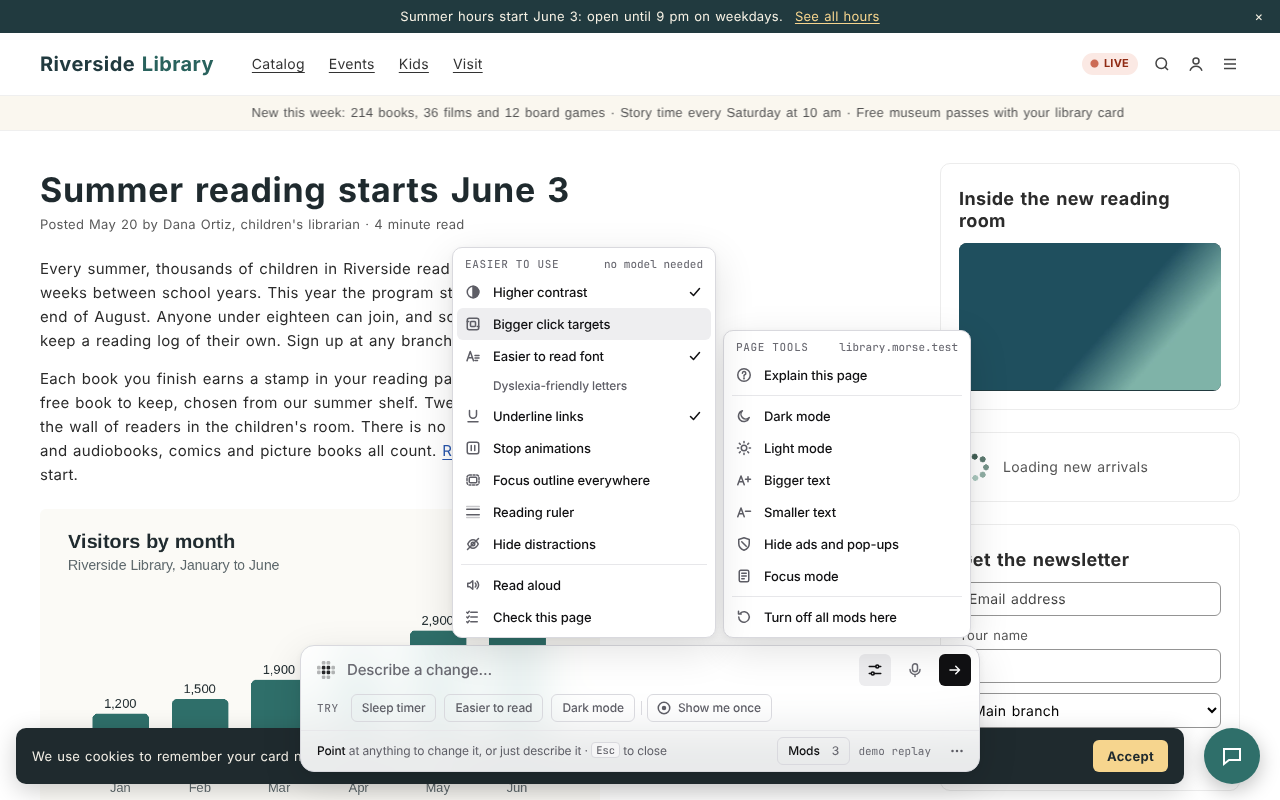
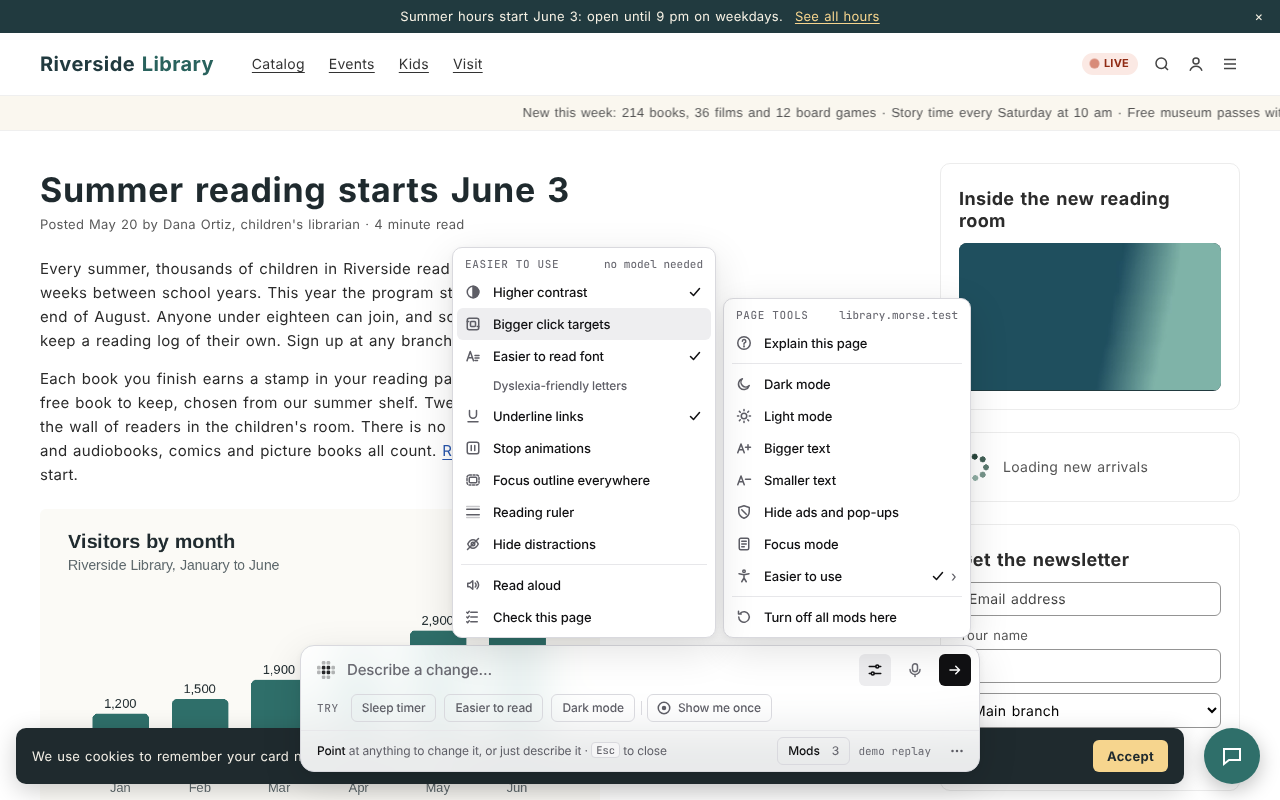
The popup's Model box folds as it opens and is left alone after, so pairing keeps its note; docs and screenshots for the simpler surfaces; screenshot scripts open the new More places; desktop shots use sonnet
Claude-Session: https://claude.ai/code/session_01JPQNdGmAR6LVbeAzJZFfz3

diff --git a/demo/ui-catalog.js b/demo/ui-catalog.js
@@ -526,9 +526,12 @@ async function panelStates(theme, width) {
       const art = ui(p, ".list article");
       await art.hover(); await sleep(150);
       await shot(p, "panel", "row-hover", art, { pad: 8 });
-      await ui(p, ".btns [data-a=code]").hover(); await sleep(150);
+      await ui(p, ".btns [data-a=share]").hover(); await sleep(150);
       await shot(p, "panel", "row-button-hover", art, { pad: 8 });
-      await shot(p, "panel", "row-button-focus", art, { pad: 8, checks: [await focusVisible(p, ui(p, ".btns [data-a=code]"))] });
+      await shot(p, "panel", "row-button-focus", art, { pad: 8, checks: [await focusVisible(p, ui(p, ".btns [data-a=share]"))] });
+      await ui(p, ".rmore summary").click(); await sleep(150); // simplify: the row's More
+      await shot(p, "panel", "row-more", art, { pad: 8 });
+      await ui(p, ".rmore summary").click(); await sleep(100);
       await ui(p, "header [data-a=close]").hover(); await sleep(150);
       await shot(p, "panel", "close-hover", ui(p, ".panel header"), { pad: 4 });
       await shot(p, "panel", "close-focus", ui(p, ".panel header"), { pad: 4, checks: [await focusVisible(p, ui(p, "header [data-a=close]"))] });
@@ -587,7 +590,9 @@ async function modalStates(theme, width) {
   p = await open({ theme, width, height: n ? 844 : 720, mods: 12 });
   await p.evaluate(() => { const m = __cat.mods[1]; m.css = Array.from({ length: 30 }, (_, i) => `.player-bar .controls > button:nth-child(${i + 1}) { transition: opacity 120ms ease, transform 120ms ease; transform: translateY(0); } /* a long line that should scroll, not wrap the layout */`).join("\n"); });
   await p.keyboard.press("Alt+Shift+KeyM"); await ui(p, ".panel").waitFor(); await sleep(300);
-  await ui(p, "article[data-id=mod2] [data-a=code]").click();
+  await ui(p, "article[data-id=mod2] .rmore summary").click(); // simplify: Show code, then Edit code
+  await ui(p, "article[data-id=mod2] [data-c=show]").click();
+  await ui(p, ".card [data-c=edit]").click();
   await ui(p, ".card").waitFor({ state: "visible" }); await sleep(300);
   await shot(p, "modal", "code-long", ui(p, ".card"));
   await p.keyboard.press("Escape"); await sleep(100);
@@ -923,7 +928,7 @@ async function sheetStates(theme, width) {
   if (!n) {
     await p.keyboard.press("ArrowDown"); await sleep(80);
     await shot(p, "menu", "item-focus", ui(p, ".bmenu"), { pad: 12 });
-    await ui(p, ".bmenu [data-m=mods]").hover(); await sleep(150);
+    await ui(p, ".bmenu [data-m=settings]").hover(); await sleep(150);
     await shot(p, "menu", "item-hover", ui(p, ".bmenu"), { pad: 12 });
   }
   await p.keyboard.press("Escape"); await sleep(100);
@@ -1235,6 +1240,7 @@ async function a11yStates(theme, width) {
   const q = ui(p, ".gm-qbtn");
   // the menu group, then with two tools on
   await q.click(); await sleep(250);
+  await ui(p, ".gm-menu [data-a11y=more]").click(); await sleep(150); // simplify: the group opens from its item
   await ui(p, ".gm-menu .a11y-group").waitFor({ timeout: 3000 }).catch(() => {});
   await shot(p, "a11y", "menu", [ui(p, ".gm-menu"), ui(p, ".gm-menu .a11y-group"), q], { pad: 12 });
   for (const k of ["underline", "readable"]) {
@@ -1372,10 +1378,13 @@ async function controlStates(theme, width) {
     await ui(p, ".ctl-row").hover(); await sleep(150);
     await shot(p, "control", "pause-row-hover", ui(p, ".ctl-strip"), { pad: 4 });
     await shot(p, "control", "pause-row-focus", ui(p, ".ctl-strip"), { pad: 4, checks: [await focusVisible(p, ui(p, "[data-c=pause-site]"))] });
+    await ui(p, ".pmore summary").click(); await sleep(150); // simplify: backup is under the panel's More
     await ui(p, "[data-c=export]").hover(); await sleep(150);
     await shot(p, "control", "backup-hover", ui(p, ".ctl-backup:not(.pk-bar)"), { pad: 4 });
-    await shot(p, "control", "backup-focus", ui(p, ".ctl-backup:not(.pk-bar)"), { pad: 4, checks: [await focusVisible(p, ui(p, "[data-c=import-file]"))] });
-    await shot(p, "control", "origin-show-code", ui(p, ".list article").first(), { pad: 8, checks: [await focusVisible(p, ui(p, "[data-c=show]"))] });
+    await shot(p, "control", "backup-focus", ui(p, ".ctl-backup:not(.pk-bar)"), { pad: 4, checks: [await focusVisible(p, ui(p, "[data-c=export]"))] });
+    await ui(p, ".pmore summary").click(); await sleep(100);
+    await ui(p, ".list article .rmore summary").first().click(); await sleep(150);
+    await shot(p, "control", "origin-show-code", ui(p, ".list article").first(), { pad: 8, checks: [await focusVisible(p, ui(p, "[data-c=show]").first())] });
   }
   // pause this site: the row turns on, every mod shows "not running", a toast
   await ui(p, ".ctl-row .sw").click(); await sleep(400); await p.mouse.move(2, 2);
@@ -1384,7 +1393,8 @@ async function controlStates(theme, width) {
   if (!n) await shot(p, "control", "toast-action-focus", ui(p, ".ctl-toast"), { pad: 16, checks: [await focusVisible(p, ui(p, ".ctl-toast [data-i='0']"))] });
   await ui(p, ".ctl-row .sw").click(); await sleep(300);
   // Show code (what it does, then the code)
-  await ui(p, "[data-c=show]").click(); await ui(p, ".card").waitFor({ state: "visible" }); await sleep(300); await blur(p);
+  if (await ui(p, "[data-c=show]").first().isHidden()) await ui(p, ".list article .rmore summary").first().click();
+  await ui(p, "[data-c=show]").first().click(); await ui(p, ".card").waitFor({ state: "visible" }); await sleep(300); await blur(p);
   await shot(p, "control", "show-code", ui(p, ".card"));
   await p.keyboard.press("Escape"); await sleep(150);
   // install review: one mod from a link, then a backup with three
@@ -2341,7 +2351,8 @@ async function packStates(theme, width) {
     await p.keyboard.press("Alt+Shift+KeyM"); await ui(p, ".panel").waitFor(); await sleep(400); await p.mouse.move(2, 2);
   };
   await openPanel();
-  await shot(p, "packs", "panel-make", [ui(p, ".pk-bar"), ui(p, ".panel footer")], { pad: 4, note: "Packs · Make a pack… sits with the backup buttons at the foot of the panel" });
+  await ui(p, ".pmore summary").click(); await sleep(150); // simplify: under the panel's More
+  await shot(p, "packs", "panel-make", [ui(p, ".pk-bar"), ui(p, ".panel footer")], { pad: 4, note: "Packs · Make a pack… sits with the backup buttons under More, at the foot of the panel" });
   if (!n) await shot(p, "packs", "panel-make-focus", ui(p, ".pk-bar"), { pad: 8, checks: [await focusVisible(p, ui(p, "[data-pk=make]"))] });
   // choosing mods
   await ui(p, "[data-pk=make]").click(); await sleep(300); await blur(p);

diff --git a/tests/simplify.test.js b/tests/simplify.test.js
@@ -9,7 +9,7 @@ import { spawnSync } from "node:child_process";
 import path from "node:path";
 import { serveBar } from "./helpers/demo-server.js";
 import { pressOpen } from "./helpers/keys.js";
-import { noBrowser, launchBrowser } from "./helpers/browser.js";
+import { noBrowser, noDisplay, launchBrowser, chromium } from "./helpers/browser.js";
 import { waitForStatus, waitForReady, TIMEOUT } from "./helpers/wait.js";
 import { home, tempDir } from "./helpers/home.js";
 import { writeFileSync, readdirSync, readFileSync } from "node:fs";
@@ -200,4 +200,38 @@ test("a config file Morse can't read: commands say so, and a change keeps a copy
   assert.equal(readFileSync(path.join(h, copies[0]), "utf8"), "{ this is not json");
   assert.match(c.stderr, /copy/, c.stderr);
   assert.doesNotMatch(run(["model"]).stderr, /can't read/, "fine once it was written again");
+});
+
+test("toolbar popup: a model that works is one line that opens to all of it; no model, it is open", { skip: noDisplay }, async () => {
+  const EXT = path.resolve(path.dirname(new URL(import.meta.url).pathname), "../dist/extension");
+  const ctx = await chromium.launchPersistentContext(tempDir("morse-simplify-popup-"), {
+    headless: false, timeout: TIMEOUT * 2, args: [`--disable-extensions-except=${EXT}`, `--load-extension=${EXT}`],
+  });
+  try {
+    const sw = ctx.serviceWorkers()[0] || await ctx.waitForEvent("serviceworker", { timeout: TIMEOUT });
+    const id = new URL(sw.url()).host;
+    const popup = async () => {
+      const p = await ctx.newPage();
+      await p.goto(`chrome-extension://${id}/popup.html?url=${encodeURIComponent("https://example.com/")}`);
+      await p.locator("#modelsum").waitFor({ state: "attached" });
+      await p.waitForTimeout(300);
+      return p;
+    };
+    // A fresh install has no model: the Model box is open, with the ways to connect one.
+    let p = await popup();
+    assert.equal(await p.locator("#modelbox").evaluate(d => d.open), true);
+    assert.equal(await p.locator("#modelsum").textContent(), "");
+    await p.close();
+    // An Anthropic key: one line, "Model · …", that opens to every control.
+    await sw.evaluate(() => chrome.storage.local.set({ model: { backend: "anthropic", anthropicKey: "sk-ant-test-0000000000" } }));
+    p = await popup();
+    assert.equal(await p.locator("#modelbox").evaluate(d => d.open), false);
+    assert.match(await p.locator("#modelbox > summary").innerText(), /Model\s+·\s+\S/i);
+    assert.equal(await p.locator("#test").isVisible(), false);
+    await p.locator("#modelbox > summary").focus();
+    await p.keyboard.press("Enter");
+    await p.locator("#test").waitFor();
+    assert.equal(await p.locator("#modelbox").evaluate(d => d.open), true, "opens from the keyboard");
+    await p.close();
+  } finally { await ctx.close(); }
 });

diff --git a/extension/popup.js b/extension/popup.js
@@ -29,11 +29,11 @@ async function openHotkey() {
 const url = new URLSearchParams(location.search).get("url") || tab?.url || "";
 const send = msg => chrome.runtime.sendMessage({ ...msg, url });
 
-let modelTouched = false; // the person opened or closed Model themselves: leave it
-document.getElementById("modelbox").addEventListener("toggle", e => { if (e.isTrusted !== false && document.getElementById("modelbox").dataset.ready) modelTouched = true; });
+// simplify: Model is folded or open as the popup opens, and then left alone,
+// so pairing here doesn't fold away its own "Paired" note.
+let modelPlaced = false;
 let st = await send({ type: "popup.state" });
 render(st);
-setTimeout(() => { $("modelbox").dataset.ready = "1"; }, 0); // toggles from here on are the person's
 
 function render(s) {
   st = s;
@@ -56,7 +56,7 @@ function render(s) {
   // simplify: a working model is one line; open it to change it. No model: open.
   const ok = s.kind !== "none" && (s.kind !== "helper" || s.helper?.paired);
   $("modelsum").textContent = ok ? `· ${s.label}` : "";
-  if (!modelTouched) $("modelbox").open = !ok || isOptions;
+  if (!modelPlaced) { modelPlaced = true; $("modelbox").open = !ok || isOptions; }
 
   // Auto (no explicit choice): show whichever is in use, else the helper.
   const backend = s.backend || (s.kind === "anthropic" ? "anthropic" : "helper");

diff --git a/demo/shoot-desktop-app.js b/demo/shoot-desktop-app.js
@@ -28,7 +28,7 @@ const extra = ["/usr/share/codium/codium", path.join(os.homedir(), "Applications
   ...(process.env.MORSE_SHOT_APPS || "").split(":")].filter(p => p && existsSync(p));
 await fs.writeFile(path.join(home, "desktop.json"), JSON.stringify({ helper: true, apps: [exe, ...extra], appArgs: { tunes: [`--user-data-dir=${profile}`, ...ROOT] } }));
 const claude = !!process.env.PATH.split(":").find(d => existsSync(path.join(d, "claude")));
-await fs.writeFile(path.join(home, "config.json"), JSON.stringify(claude ? { provider: "claude-code", models: { "claude-code": "haiku" } } : { provider: "demo" }), { mode: 0o600 });
+await fs.writeFile(path.join(home, "config.json"), JSON.stringify(claude ? { provider: "claude-code", models: { "claude-code": "sonnet" } } : { provider: "demo" }), { mode: 0o600 });
 await fs.mkdir(path.join(home, "mods"), { recursive: true });
 const mod = (app, url, title, prompt, enabled = true) => ({ ...createMod({ title, prompt, css: "/* … */", url, app }), enabled });
 for (const m of [

diff --git a/demo/shoot-bar.js b/demo/shoot-bar.js
@@ -73,7 +73,10 @@ await scene("62-hotkey-recorder.png", "", async p => {
   await p.keyboard.press("Meta+Comma");
   await p.mouse.move(640, 500);
   await p.waitForTimeout(200);
-  await p.keyboard.press("Tab"); // Open Morse -> Push to talk
+  // Push to talk is under More settings (docs/dev/simplify.md)
+  await p.evaluate(() => document.querySelector("[data-morse-ui]").shadowRoot.querySelector("[data-act=more]").click());
+  await p.waitForTimeout(150);
+  await p.evaluate(() => document.querySelector("[data-morse-ui]").shadowRoot.querySelector("[data-hk=talk]").focus());
   await p.keyboard.press("Enter");
   await p.waitForTimeout(150);
   await p.keyboard.press("Meta+KeyQ");

diff --git a/demo/shoot-desktop.js b/demo/shoot-desktop.js
@@ -166,7 +166,9 @@ await sleep(500);
 await shot("11-mods-panel.png");
 
 // 11. Code view / edit
-await page.locator(".panel article").first().locator("[data-a=code]").click();
+await page.locator(".panel article").first().locator(".rmore summary").click(); // More → Show code → Edit code
+await page.locator(".panel article").first().locator("[data-c=show]").click();
+await page.locator(".card [data-c=edit]").click();
 await sleep(400);
 await shot("12-edit-the-code.png");
 await page.keyboard.press("Escape");

diff --git a/demo/shoot-a11y.js b/demo/shoot-a11y.js
@@ -22,6 +22,7 @@ const quiet = page => page.locator(".toast").waitFor({ state: "hidden", timeout:
 async function tools(page) {
   if (await page.locator(".bar").isHidden()) await pressOpen(page); // the default Open Morse key (core/hotkeys.js)
   await page.locator(".gm-qbtn").click();
+  await page.locator(".gm-menu [data-a11y=more]").click(); // the group opens from its one item
   await page.locator(".gm-menu .a11y-group").waitFor();
 }
 async function turnOn(page, ...kinds) {

diff --git a/demo/shoot-packs.js b/demo/shoot-packs.js
@@ -94,6 +94,7 @@ const exists = id => fs.access(path.join(MODS, `${id}.json`)).then(() => true, (
 // ---- 160: choosing mods for a pack
 await load();
 await openPanel();
+await ui(".panel .pmore summary").click(); // under the panel's More
 await ui(".panel [data-pk=make]").click();
 for (const id of ["sticky-head", "failed-red", "copy-order"]) await ui(`.panel article[data-id="${id}"] [data-pk=sel]`).check();
 await ui(".panel .list").evaluate(l => l.scrollTo({ top: 0 }));

diff --git a/demo/helper.js b/demo/helper.js
@@ -156,7 +156,7 @@ export async function pairExtension(ctx, id, code) {
   await pop.goto(`chrome-extension://${id}/popup.html`);
   await pop.locator("#code").fill(code);
   await pop.locator("#pair").click();
-  await pop.locator("#unpair:not([hidden])").waitFor({ timeout: 30000 });
+  await pop.locator("#unpair:not([hidden])").waitFor({ state: "attached", timeout: 30000 }); // the Model box folds once it works (popup.js)
   await pop.close();
 }
 

diff --git a/docs/screenshots/REVIEW.md b/docs/screenshots/REVIEW.md
@@ -18,8 +18,8 @@ How to retake them: [Testing → Screenshots](../dev/testing.md#screenshots).
 | 07-share.png | shoot-desktop.js | ✅ | Share card, link and downloads; the app is named "tunes" |
 | 08-the-new-feature-works.png | shoot-desktop.js | ✅ | The sleep timer counting down |
 | 09-css-applies-while-it-writes.png | shoot-desktop.js | ✅ | Bigger covers showing while the change is written |
-| 11-mods-panel.png | shoot-desktop.js | ✅ | Two mods, Change / Copy link / Share / Edit code |
-| 12-edit-the-code.png | shoot-desktop.js | ✅ | Code boxes now have dark scrollbars (runtime fix in 99-css.js) |
+| 11-mods-panel.png | shoot-desktop.js | ✅ | Two mods, Change / Share / More; Install a mod… and More at the foot (simplify) |
+| 12-edit-the-code.png | shoot-desktop.js | ✅ | Opened from More → Show code → Edit code; dark scrollbars |
 | 14-share-card.png | shoot-desktop.js | ✅ | Was made by no script; now saved from the share dialog |
 | 20-extension-installed.png | shoot-extension.js | ✅ | Chrome's details page, "Allow User Scripts" on |
 | 21-web-point.png | shoot-extension.js | ✅ | |
@@ -32,7 +32,7 @@ How to retake them: [Testing → Screenshots](../dev/testing.md#screenshots).
 | 30-share-link.png | shoot-extension.js | ✅ | The share page in a second browser |
 | 32-friend-gets-the-mod.png | shoot-extension.js | ✅ | |
 | 33-userscript-runs-without-morse.png | shoot-extension.js | ✅ | |
-| 34-popup.png | shoot-extension.js | ✅ | Whole popup: this site's mods and the Morse helper |
+| 34-popup.png | shoot-extension.js | ✅ | Whole popup: this site's mods; a working model is one line, “Model · demo replay” (simplify) |
 | 40-refine.png | shoot-iterate.js | ✅ | A follow-up under the result, "needed a second try" (name kept: docs link it) |
 | 41-history.png | shoot-iterate.js | ✅ | Three versions |
 | 42-fix-it.png | shoot-iterate.js | ✅ | "Not working" with Fix it |
@@ -44,8 +44,8 @@ How to retake them: [Testing → Screenshots](../dev/testing.md#screenshots).
 | 55-capture.png | shoot-godmode.js | ✅ | |
 | 56-reuse.png | shoot-godmode.js | ✅ | |
 | 60-voice.png | shoot-bar.js | ✅ | |
-| 61-settings.png | shoot-bar.js | ✅ | Your style, Shortcuts, Voice, Appearance; the rest scrolls |
-| 62-hotkey-recorder.png | shoot-bar.js | ✅ | "⌘Q quits the app. Pick another." |
+| 61-settings.png | shoot-bar.js | ✅ | Your style, Open Morse, Theme, Language, Fix automatically, then More settings; nothing scrolls (simplify) |
+| 62-hotkey-recorder.png | shoot-bar.js | ✅ | "⌘Q quits the app. Pick another.", Push to talk under More settings |
 | 63-suggestions.png | shoot-bar.js | ✅ | |
 | 64-shortcuts.png | shoot-bar.js | ✅ | |
 | 65-cancelled.png | shoot-bar.js | ✅ | "Stopped. Nothing was changed" |
@@ -64,7 +64,7 @@ How to retake them: [Testing → Screenshots](../dev/testing.md#screenshots).
 | 96-install-summary.png | shoot-control.js | ✅ | |
 | 97-pause-site.png | shoot-control.js | ✅ | A model connected, so no "connect a model" note |
 | 98-popup-pause.png | shoot-control.js | ✅ | Ends where "Model" starts |
-| 100-easier-to-use.png | shoot-a11y.js | ✅ | |
+| 100-easier-to-use.png | shoot-a11y.js | ✅ | Opened from its one item in Page tools, which shows a tick when a tool is on (simplify) |
 | 101-read-aloud.png | shoot-a11y.js | ✅ | |
 | 102-check-page.png | shoot-a11y.js | ✅ | |
 | 103-before-after-contrast.png | shoot-a11y.js | ✅ | |
@@ -100,11 +100,11 @@ How to retake them: [Testing → Screenshots](../dev/testing.md#screenshots).
 | claude-code/01 … 14 | shoot-desktop.js with `MORSE_PROVIDER=claude-code MORSE_MODEL=haiku SHOTS=docs/screenshots/claude-code` | ✅ | Whole run with real Claude Code. 14-share-card.png is new. Taken before the last merge from main, so the Mods panel (11) has no Packs row yet; a rerun after it was worse (haiku answered in 5 s, so 04 caught the finished change) and wasn't kept |
 | 167-desktop-app-apps.png | shoot-desktop-app.js | ✅ | Morse Desktop: this machine's apps, Tunes really connected (2 windows) |
 | 168-desktop-app-restart.png | shoot-desktop-app.js | ✅ | “Tunes is open. Restart it with Morse?”, with Always restart |
-| 169-desktop-app-model.png | shoot-desktop-app.js | ✅ | Real Claude Code (haiku) answered the check; the three choices |
+| 169-desktop-app-model.png | shoot-desktop-app.js | ✅ | Real Claude Code (sonnet) answered the check; the three choices; four sections now |
 | 170-desktop-app-chrome.png | shoot-desktop-app.js | ✅ | The Morse helper on, the three ways to connect Chrome, a code |
 | 171-desktop-app-allow-chrome.png | shoot-desktop-app.js | ✅ | “Allow Chrome to use your Claude Code · haiku?”: the real helper (onboarding v2, daemon/bridge.js /v1/pair/ask) asking, for a request made the way the extension makes it |
 | 172-desktop-app-mods.png | shoot-desktop-app.js | ✅ | Mods per app with switches; one turned off |
-| 173-desktop-app-checks.png | shoot-desktop-app.js | ✅ | The checks, with the model answering for real; “You're root” is this test machine |
+| 173-desktop-app-checks.png | shoot-desktop-app.js | ✅ | The checks, a card under Model now (simplify), with the model answering for real; “You're root” is this test machine |
 | 174-desktop-app-light.png | shoot-desktop-app.js | ✅ | Light mode; Tunes open and ready to connect |
 | 175-desktop-app-first-run.png | shoot-desktop-app.js | ✅ | The first run: Claude Code found and checked for real, the apps to open |
 

diff --git a/docs/mod-packs.md b/docs/mod-packs.md
@@ -11,7 +11,7 @@ A pack travels the same ways a mod does: as a share link, as a file, or from an 
 
 ## Make a pack
 
-1. Open the Mods panel and press **Make a pack…** (under Packs, near the bottom).
+1. Open the Mods panel and press **More → Make a pack…** (at the bottom).
 2. Tick the mods you want in it, then press **Next**.
 3. Give the pack a name, and a note if you like: what the mods are for, and who they're for.
 4. Press **Copy link** to share it as a link, or **Download pack file** to share it as a file.
@@ -22,7 +22,7 @@ The Mods panel shows the mods for the site you're on. To put mods for several si
 
 ## Install a pack
 
-Open the link, or in the Mods panel press **Install a mod…** and paste the link, the text of a pack file, or the address of a pack. **Install from a file…** takes a pack file too.
+Open the link, or in the Mods panel press **Install a mod…** and paste the link, the text of a pack file, or the address of a pack. **Install from a file…** in the same window takes a pack file too.
 
 ![The share page for a pack](screenshots/162-pack-share-page.png)
 

diff --git a/docs/changing-things.md b/docs/changing-things.md
@@ -114,10 +114,13 @@ stop talking.
 
 ## Shortcuts and Settings
 
-Open Settings from the slider button in the bar, or with **⌘,** (Ctrl+,).
-There you can change every shortcut: open Morse, talk, the Mods panel, the
-Edit tools, and the off switch. Morse refuses keys that would cause trouble,
-like ⌘Q or Alt+F4.
+Open Settings from the **⋯** button in the bar, or with **⌘,** (Ctrl+,).
+It shows the few things people change: Your style, the shortcut that opens
+Morse, the theme, the language and fixing mods by themselves. **More
+settings** has the rest: the other shortcuts (talk, the Mods panel, the Edit
+tools, the off switch), voice, effects, where the bar sits, the model and
+the small notices. Morse refuses keys that would cause trouble, like ⌘Q or
+Alt+F4.
 
 The defaults are ⌥Space on macOS and Ctrl+Shift+Space on Windows and Linux,
 where Alt+Space opens the window menu (or KRunner on KDE). Morse's own
